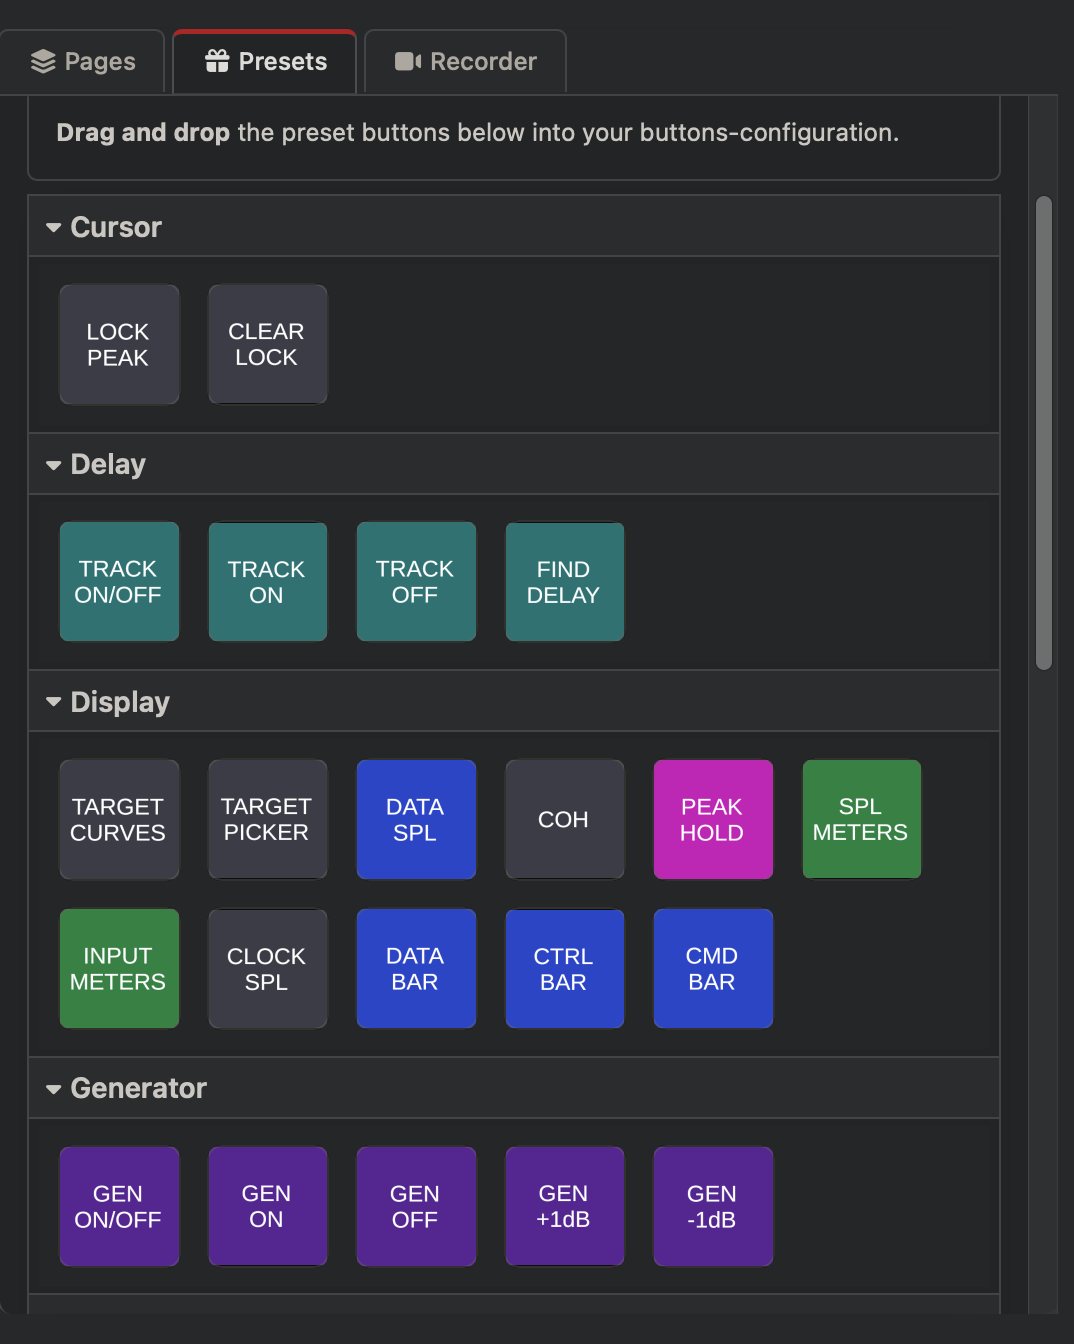
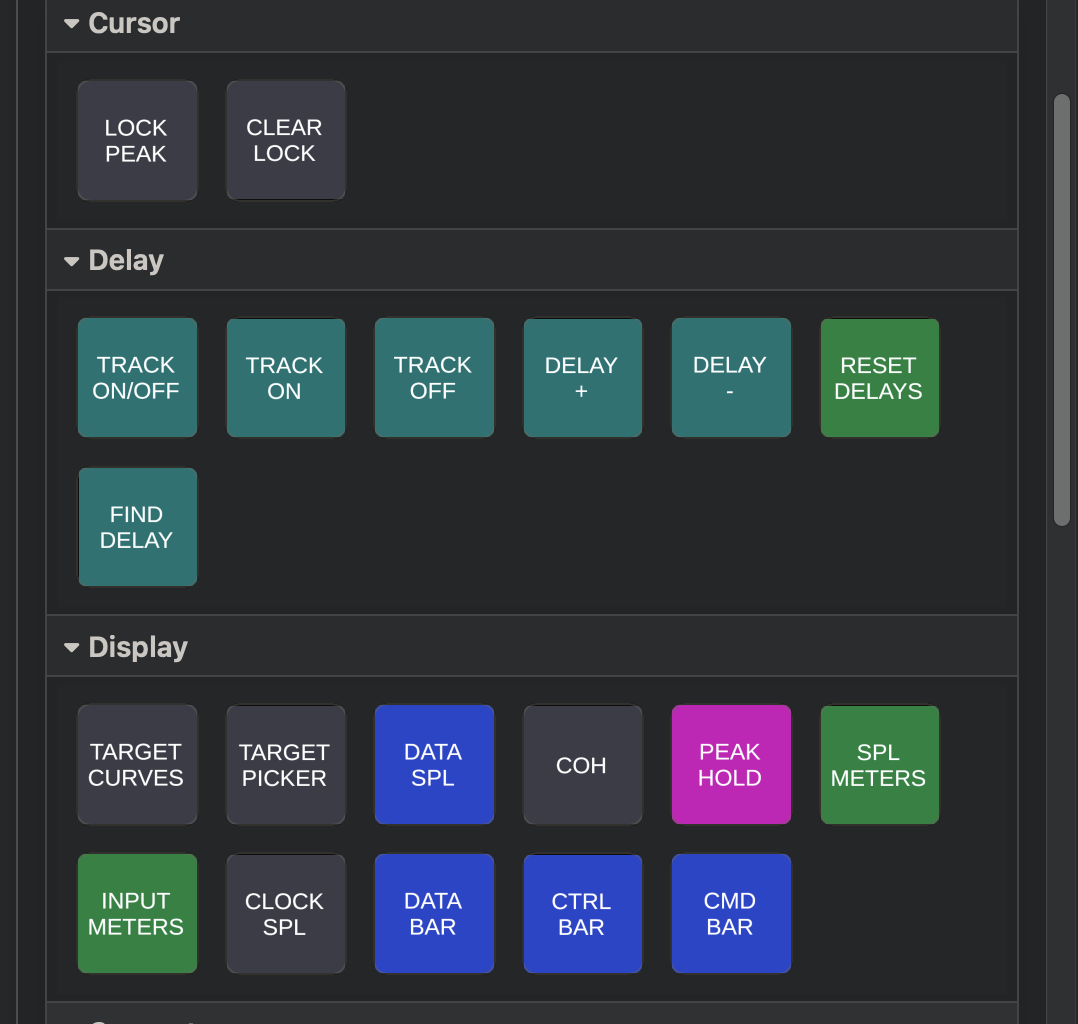
Refresh the presets screenshots

diff --git a/tools/companion/index.html b/tools/companion/index.html
@@ -95,8 +95,8 @@
         <div class="script-card setup">
             <h3>Ready-made presets</h3>
             <p>91 presets across ten categories: SPL Readouts, Traces, Measurements, Display, Zoom, Delay, Views, Generator, SPL and Cursor. Open the <strong>Presets</strong> tab in Companion, pick <strong>BSK Apps: Smaart Control</strong>, and drag any button straight onto your surface. Colours and text come set up.</p>
-            <img class="step-shot" src="/tools/companion/images/smaart-presets-1.png" alt="Companion Presets tab showing BSK Smaart preset buttons grouped under Cursor, Delay, Display and Generator">
-            <img class="step-shot" src="/tools/companion/images/smaart-presets-2.png" alt="Companion Presets tab showing BSK Smaart preset buttons grouped under Measurements, SPL, Traces and Views">
+            <img class="step-shot" src="/tools/companion/images/smaart-presets-1.png?v=2" alt="Companion Presets tab showing BSK Smaart preset buttons grouped under Cursor, Delay and Display">
+            <img class="step-shot" src="/tools/companion/images/smaart-presets-2.png?v=2" alt="Companion Presets tab showing BSK Smaart preset buttons grouped under Display, Generator and Measurements">
             <p style="margin-top:18px;"><strong>SPL Readouts</strong> is the largest category: one preset per metric, each of which also starts and stops logging when you tap it. Plus a cycling readout that steps through a list of metrics you choose, so one button can show A Slow, C Slow and Leq in turn.</p>
             <ul class="ref-list">
                 <li>SPL Fast</li><li>SPL A Fast</li><li>SPL C Fast</li><li>SPL Slow</li><li>SPL A Slow</li><li>SPL C Slow</li><li>Leq 1</li><li>LAeq 1</li><li>LCeq 1</li><li>Leq 15</li><li>LAeq 15</li><li>LCeq 15</li><li>Leq 60</li><li>LAeq 60</li><li>LCeq 60</li><li>Peak</li><li>Peak A</li><li>Peak C</li><li>FS Peak</li><li>Exposure O</li><li>Exposure N</li>
